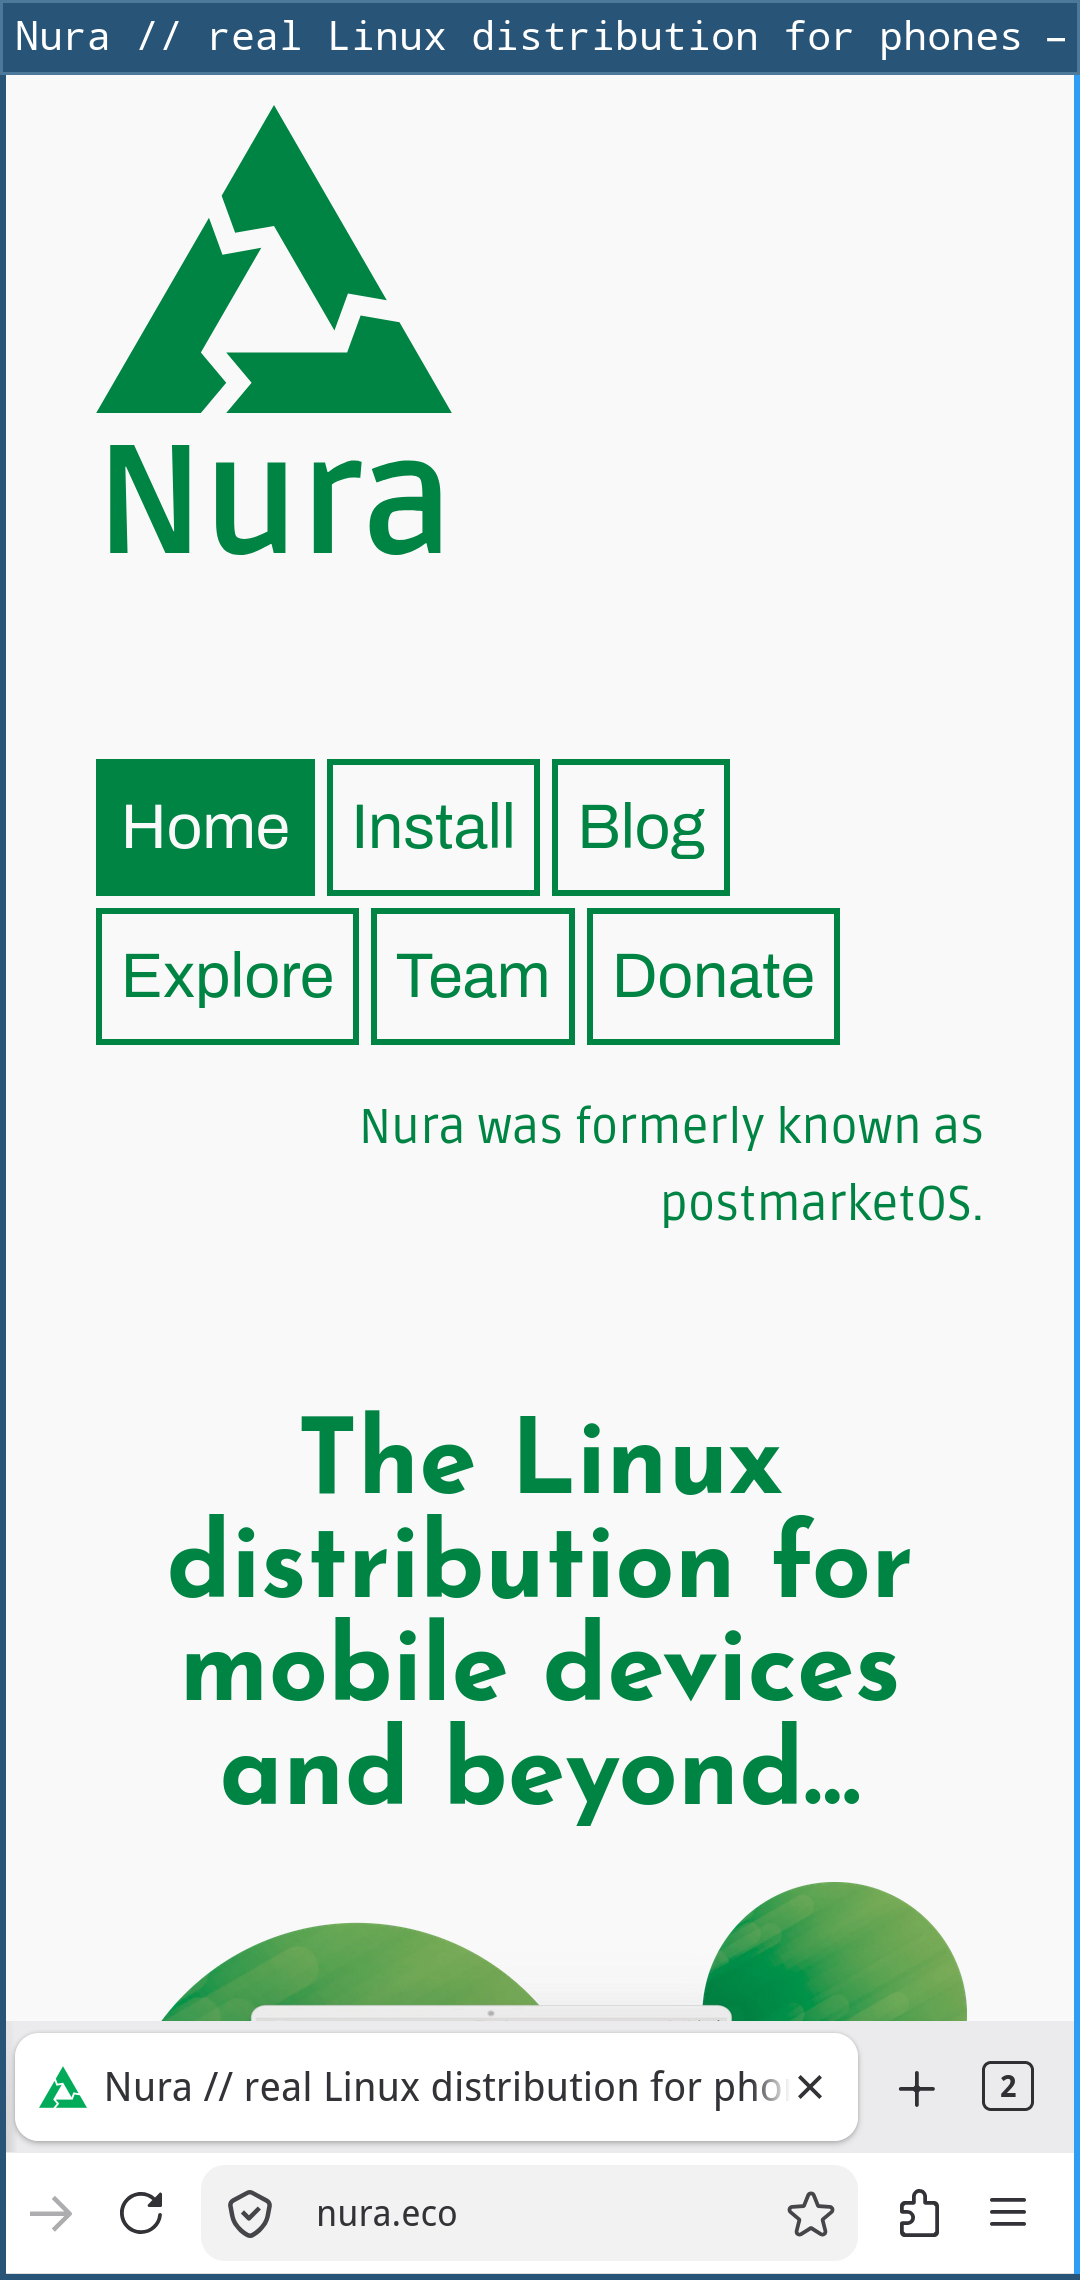
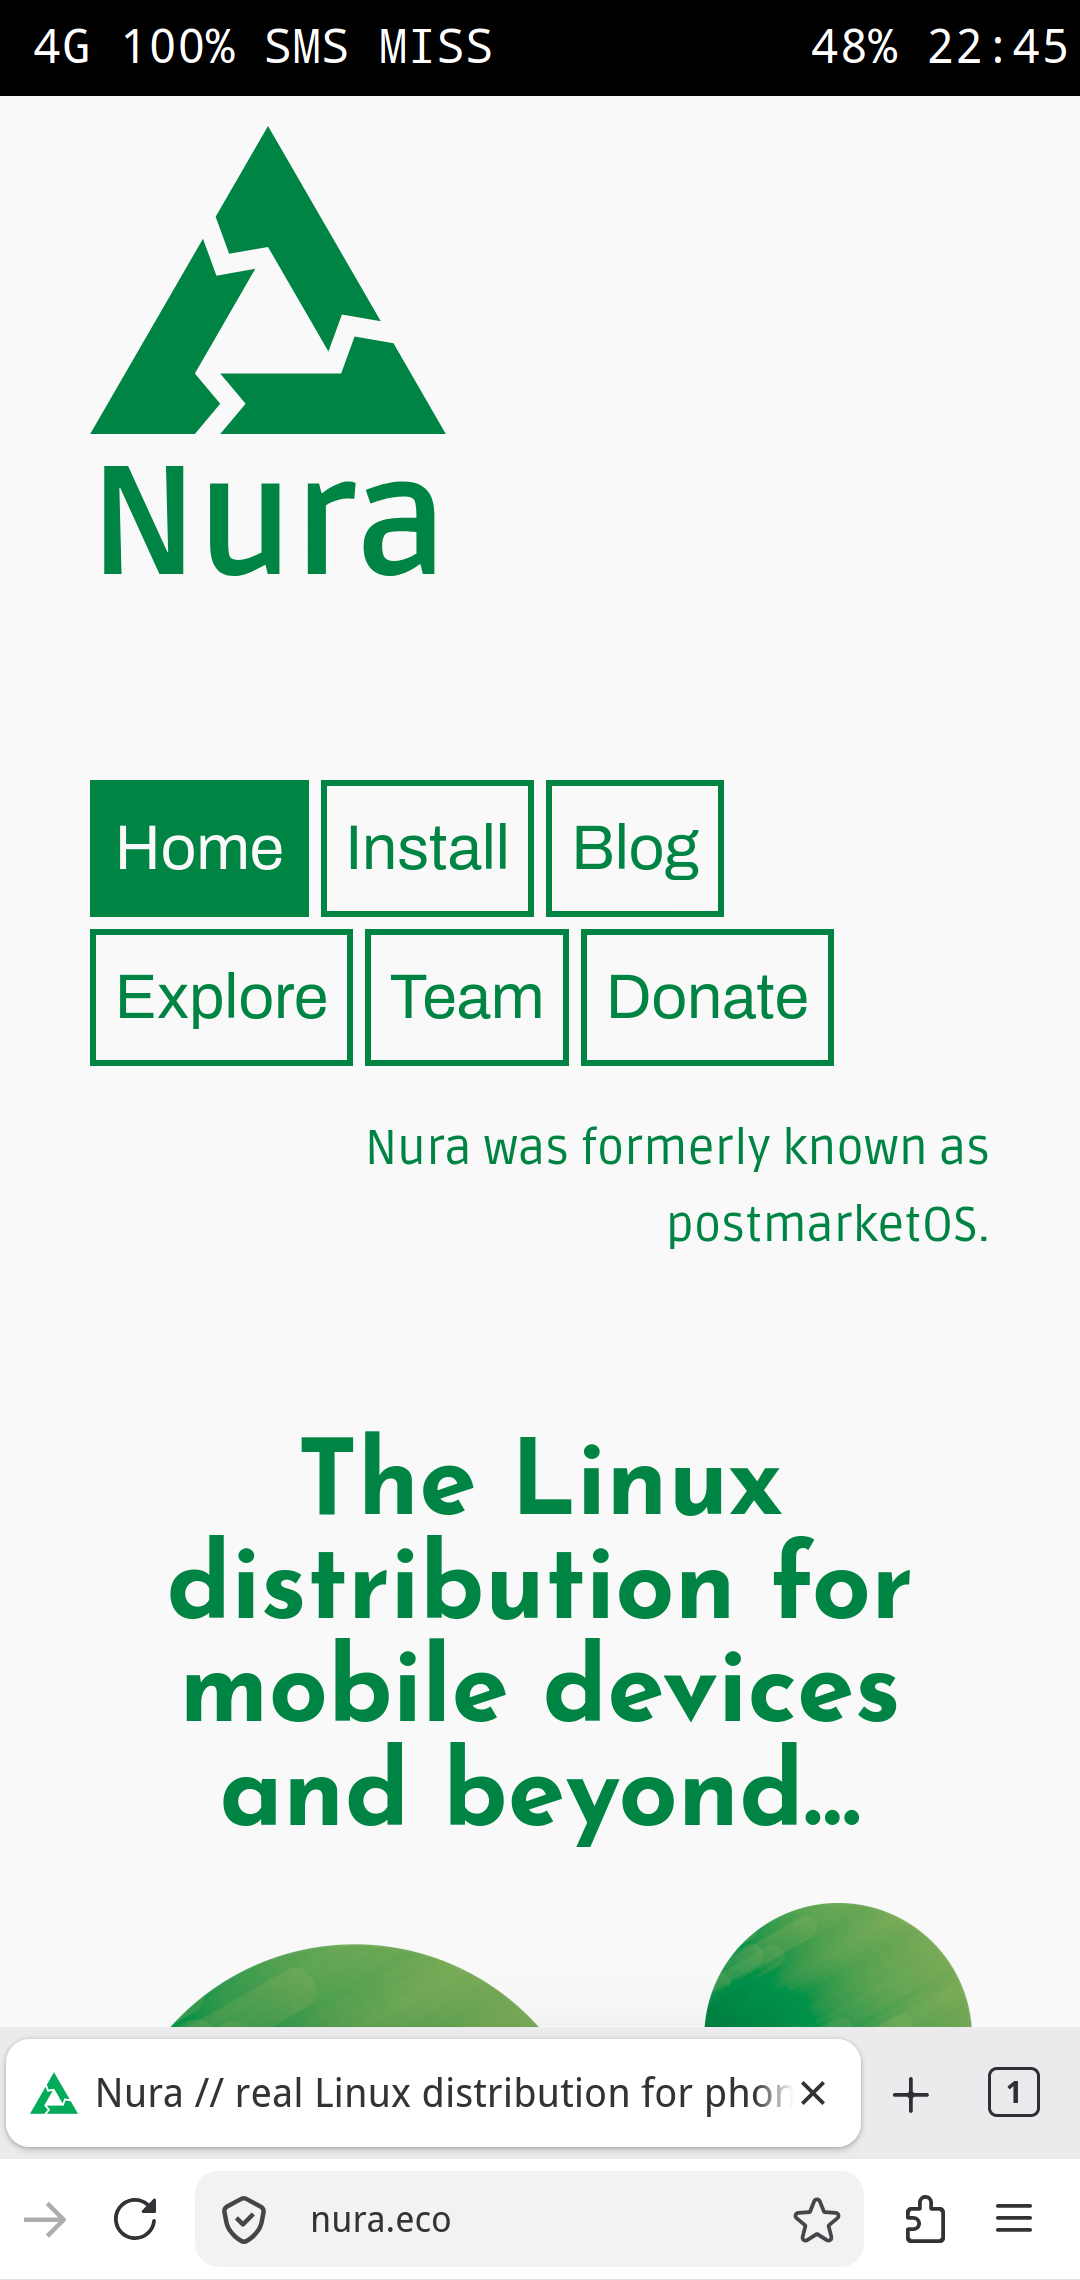
README: new screenshot with the SMS/MISS status bar, shown at half width

Changed region(s): [[0.0, 0.0, 1.0, 1.0], [0.0611, 0.3114, 0.9167, 0.5605], [0.8556, 0.8408, 0.8861, 0.8719]]

diff --git a/README.md b/README.md
@@ -1,6 +1,8 @@
 # nura-basic-terminal
 
-![Firefox on the NuraOS site, running fullscreen via `app`](screenshots/firefox-nuraos.png)
+<p align="center">
+  <img src="screenshots/firefox-nuraos.png" width="540" alt="Firefox on the NuraOS site, running fullscreen via `app` — the status bar shows the SMS and missed-call indicators next to the signal strength">
+</p>
 
 Make a postmarketOS phone usable **without a GUI** — and give it one when
 you want it (`app firefox`, above). If your phone runs a bare
@@ -466,7 +468,7 @@ than two terminal rows.
   (doas-rule template, `@USER@` filled in by the installer),
   `app-alias.sh` (profile.d alias `app` → `doas app`)
 - `screenshots/` — `firefox-nuraos.png`, taken on the device with
-  vol-up + power
+  vol-up + power; the bar shows the SMS and missed-call indicators
 - `statusbar/` — `phone-statusbar` — Python daemon;
   `phone-statusbar.service` — its unit; `phone-statusbar.conf` — battery
   tunables, installed to `/etc/phone-statusbar.conf`;
